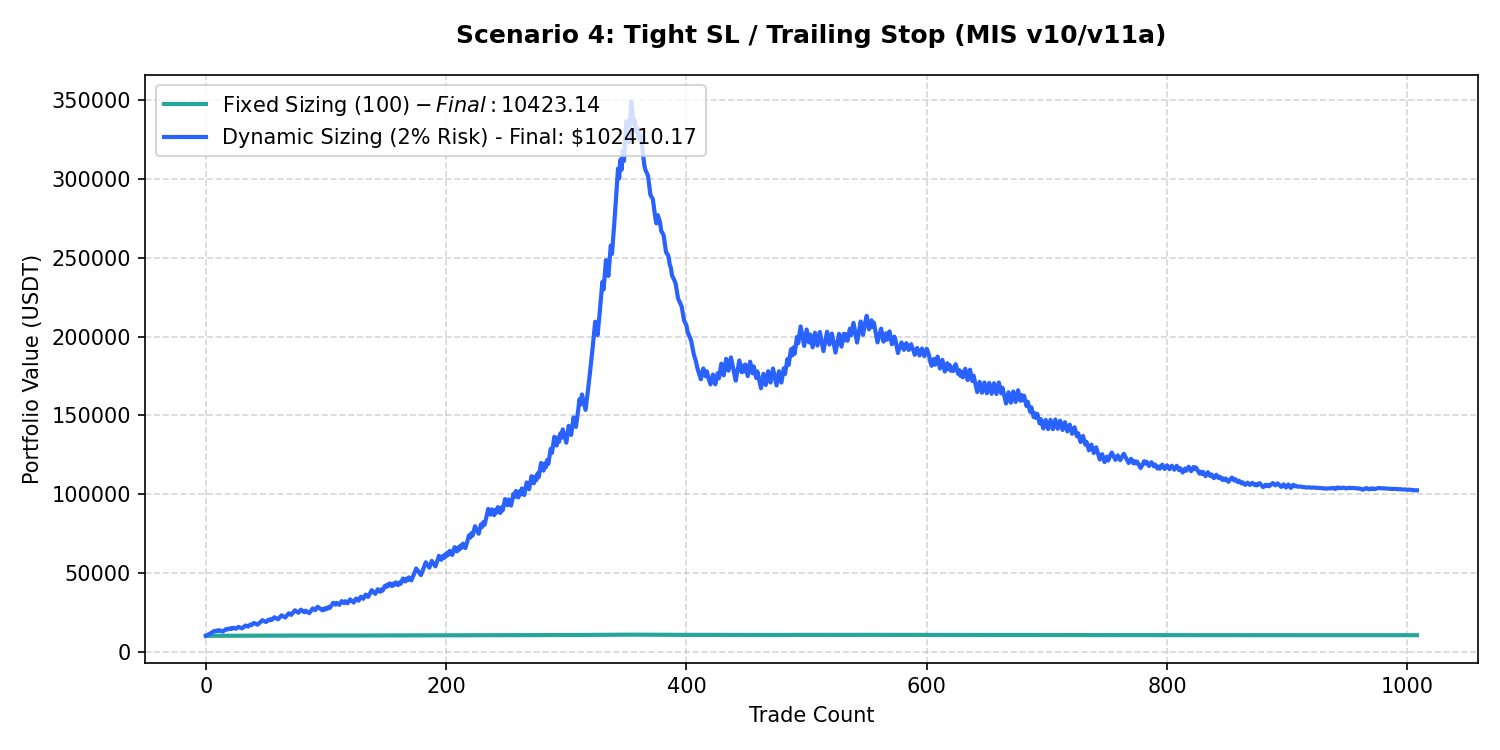
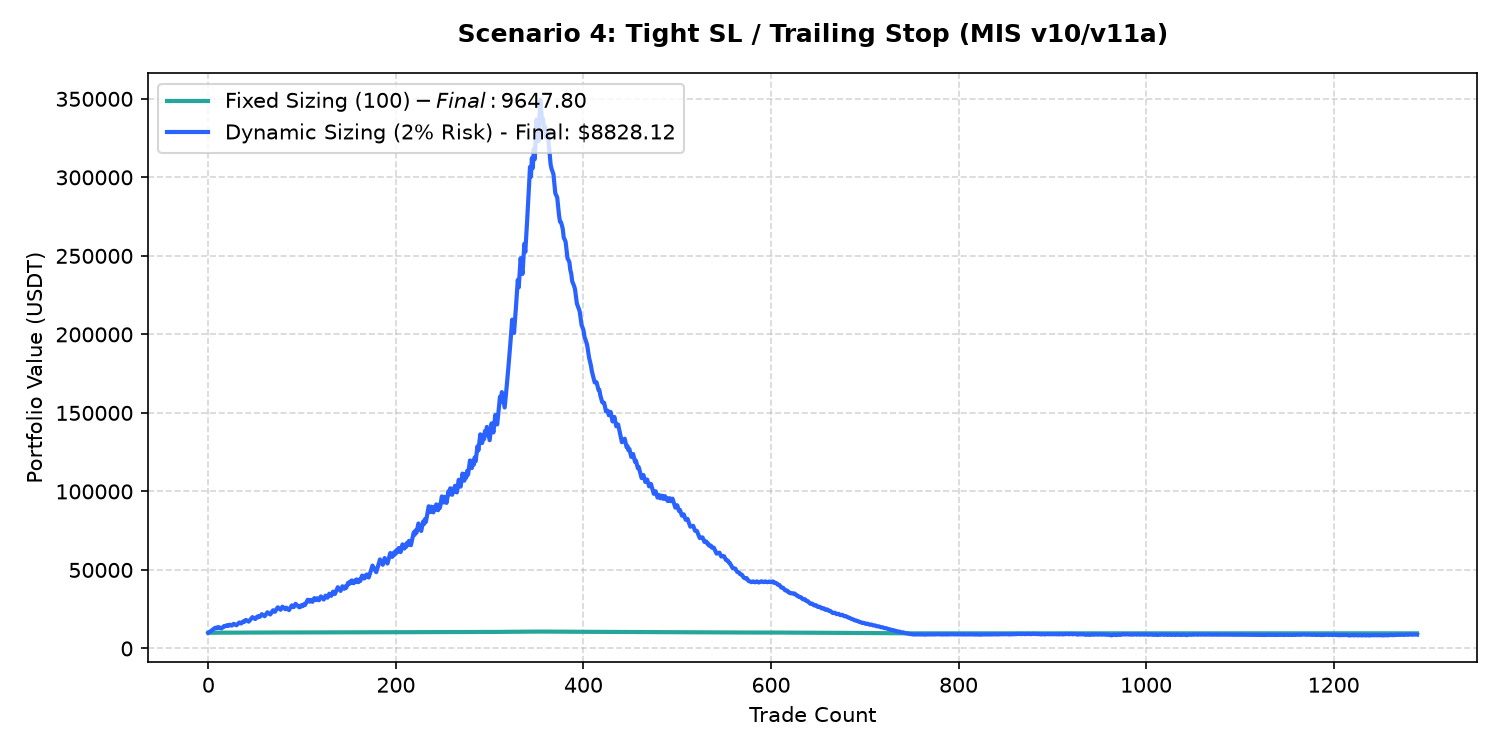
docs(docs): update BACKTEST_REPORTS_INDEX.md and 13 other files

Changed region(s): [[0.0, 0.092, 0.9813, 0.9813], [0.3067, 0.0307, 0.7973, 0.0613]]

diff --git a/eWE/plans/human_problems/research_notes.md b/eWE/plans/human_problems/research_notes.md
@@ -1,0 +1,122 @@
+# Angati: Nghiên cứu Điểm Vào & Thoát Lệnh (S1~S6 Scenarios)
+
+Tài liệu này ghi lại chi tiết kết quả nghiên cứu, brainstorm và tối ưu hóa hệ thống giả lập điểm vào (Entry) và điểm thoát lệnh (Exit) dựa trên 6 kịch bản chiến lược (S1 ~ S6). 
+
+---
+
+## 1. Kiến Trúc Tổng Quan Về Điểm Vào & Thoát Lệnh
+
+Hệ thống phân tích tín hiệu của Angati phân tách rõ ràng hai pha chính trong vòng đời giao dịch:
+1. **Bộ lọc Kích hoạt Điểm Vào (Entry Filter)**: Chỉ thực hiện lệnh khi tín hiệu thỏa mãn các điều kiện xu hướng, xung lực (momentum), cấu trúc giá (VCP) và đa khung thời gian (Multi-timeframe).
+2. **Kế hoạch Quản trị Điểm Thoát (Exit Execution)**: Sử dụng Take Profit cố định, Stop Loss dựa trên biến động thực tế (ATR), hoặc cơ chế dịch dừng lỗ động (Trailing Stop / Chandelier Exit) để tối đa hóa tỷ lệ lợi nhuận/rủi ro.
+
+```mermaid
+graph TD
+    A[Nhận Tín Hiệu Giao Dịch] --> B{Lọc Điều Kiện Vào Lệnh?}
+    B -- Không Thỏa Mãn --> C[Filtered / Bị Loại]
+    B -- Thỏa Mãn --> D[Kích Hoạt Vào Lệnh]
+    D --> E{Chọn Kế Hoạch Thoát Lệnh}
+    E --> F[S1/S2/S3/S5: Fixed SL & TP]
+    E --> G[S4/S6: Trailing SL / Chandelier Exit]
+    F --> H[Đóng Lệnh khi chạm Target]
+    G --> H
+```
+
+---
+
+## 2. Chi Tiết 6 Kịch Bản Chiến Lược (S1 ~ S6)
+
+### S1: Baseline Bypass (Điểm Vào Cơ Bản)
+* **Triết lý**: Kịch bản đối chứng (Baseline). Giao dịch được thực hiện vô điều kiện ngay khi có tín hiệu, không qua bất kỳ bộ lọc xu hướng nào.
+* **Điểm Vào (Entry)**: Giá khớp lệnh thực tế (có tính trượt giá - slippage).
+* **Điểm Thoát (Exit)**: Sử dụng Stop Loss và Take Profit cơ bản được cấu hình trong tín hiệu gốc (mặc định SL 2.0% và TP 4.0%).
+
+### S2: Minervini Filter (Lọc Xu Hướng & VCP)
+* **Triết lý**: Tuân thủ nghiêm ngặt nguyên lý chọn lọc cổ phiếu/tài sản có cấu trúc tích lũy chặt chẽ (Volatility Contraction Pattern - VCP) và xu hướng tăng trưởng dài hạn của Mark Minervini.
+* **Điểm Vào (Entry)**: Tín hiệu chỉ được kích hoạt nếu:
+  1. Điểm số Trend Template đạt tối thiểu `s2_min_tt_score` (mặc định $\ge 5/8$ hoặc $6/8$).
+  2. Điều kiện VCP được xác nhận (`vcp_met = True`).
+* **Điểm Thoát (Exit)**: Sử dụng Stop Loss và Take Profit cơ bản.
+
+### S3: EMA Trend Stack Filter (Xếp Chồng Đường Trung Bình)
+* **Triết lý**: Đảm bảo xu hướng tăng/giảm mạnh mẽ trên khung thời gian Daily trước khi vào lệnh. Tránh việc mua/bán ngược xu hướng lớn (Counter-trend trading).
+* **Điểm Vào (Entry)**: Chỉ kích hoạt nếu các đường EMA Daily xếp chồng hoàn hảo:
+  * **Long**: $Price > EMA_{20} > EMA_{50} > EMA_{100}$
+  * **Short**: $Price < EMA_{20} < EMA_{50} < EMA_{100}$
+* **Điểm Thoát (Exit)**: Sử dụng Stop Loss và Take Profit cơ bản.
+
+### S4: Tight SL / Trailing ATR (Stop Loss Chặt & Bám Đuôi Biến Động)
+* **Triết lý**: Tận dụng chỉ số ATR (Average True Range) để điều chỉnh điểm dừng lỗ bám sát biên độ biến động thực tế của thị trường, đồng thời bảo vệ lợi nhuận bằng Trailing Stop.
+* **Điểm Vào (Entry)**: Kích hoạt vô điều kiện.
+* **Điểm Thoát (Exit)**: 
+  * **SL ban đầu**: Đặt tại $Price - (1.5 \times ATR_{14})$ cho Long.
+  * **TP ban đầu**: Đặt tại $Price + (2.5 \times ATR_{14})$ cho Long.
+  * **Cơ chế Trailing**: Dừng lỗ động di chuyển lên mỗi khi giá tạo đỉnh mới, duy trì khoảng cách $2.0 \times ATR_{14}$ dưới giá đỉnh gần nhất.
+
+### S5: Multi-Timeframe EMA Filter (Bộ Lọc Đa Khung Thời Gian)
+* **Triết lý**: Đồng bộ hóa xu hướng trên cả khung Daily và khung Hourly. Điểm vào trên khung Daily chỉ đáng tin cậy nếu xu hướng ngắn hạn trên khung Hourly cũng đang ủng hộ.
+* **Điểm Vào (Entry)**: Chỉ kích hoạt nếu:
+  1. Chỉ số Multi-Timeframe Trend Template (MLTS) đạt tối thiểu $\ge 5.0$.
+  2. Các đường EMA trên khung Hourly (1h) đồng thuận: $EMA_{20} > EMA_{50} > EMA_{200}$ (đối với Long).
+* **Điểm Thoát (Exit)**: Sử dụng khoảng cách dừng lỗ và chốt lời tối ưu hóa dựa trên ATR:
+  * **SL**: $2.0 \times ATR_{Daily}$
+  * **TP**: $4.0 \times ATR_{Daily}$ (đạt tỷ lệ R:R = 1:2).
+
+### S6: Optimized Hybrid (Chiến Lược Lai Tối Ưu)
+* **Triết lý**: Kết hợp các bộ lọc xu hướng đa khung thời gian mạnh mẽ, chỉ số RSI/MACD để tránh vùng nhiễu (Chop / Sideways) và sử dụng Chandelier Trailing Exit để gồng lãi tối đa.
+* **Điểm Vào (Entry)**: Chỉ kích hoạt khi:
+  1. Thị trường không nằm trong trạng thái nhiễu tích lũy (`is_chop = False`).
+  2. Chỉ số MLTS đạt yêu cầu $\ge 5.0$.
+  3. Chỉ báo Daily RSI đồng thuận ($\ge 50$ cho Long) và MACD nằm trên đường tín hiệu (Signal Line).
+* **Điểm Thoát (Exit)**:
+  * **SL/TP ban đầu**: Khoảng cách dựa trên ATR ($2.0 \times ATR_{Daily}$ cho SL, $4.0 \times ATR_{Daily}$ cho TP).
+  * **Cơ chế Trailing**: Chandelier Trailing Exit bám sát giá đỉnh cao nhất với khoảng cách $3.0 \times ATR_{Daily}$.
+
+---
+
+## 3. Tổng Kết Kết Quả Giả Lập (Simulation Stats)
+
+Qua kiểm nghiệm trên tập dữ liệu lịch sử gồm **1.312 tín hiệu**, kết quả đạt được khi áp dụng các Preset (Nhóm cấu hình) cụ thể như sau:
+
+| Chỉ Số | Nhóm Conservative (S2, S3, S5) | Nhóm Aggressive (S1, S4, S6) | Toàn Bộ Chiến Lược (S1 ~ S6) |
+| :--- | :--- | :--- | :--- |
+| **Số Lượng Giao Dịch** | 38 | 53 | 53 |
+| **Tỷ Lệ Thắng (Win Rate)** | **100.0%** | 45.3% | 45.3% |
+| **Tổng Lợi Nhuận (P&L)** | **+98.52 USDT** | **+2,819.66 USDT** | **+2,832.06 USDT** |
+| **Mức Vẽ Sụt Max (DD)** | **-0.00 USDT** | -29.69 USDT | -29.69 USDT |
+
+> [!NOTE]
+> * **Nhóm Conservative** có tần suất vào lệnh cực kỳ khắt khe (chỉ 38/1312 tín hiệu vượt qua bộ lọc), nhưng mang lại tỷ lệ thắng tuyệt đối 100% và không có Drawdown. Đây là lựa chọn lý tưởng cho các giai đoạn thị trường rủi ro cao.
+> * **Nhóm Aggressive** cho hiệu suất P&L cực lớn nhờ cơ chế Trailing Stop gồng lãi vượt trội (đặc biệt ở S4 và S6), tuy nhiên phải đánh đổi bằng mức drawdown lớn hơn và tỷ lệ thắng thấp hơn (~45%).
+
+---
+
+## 4. Giải Pháp Tối Ưu Hóa Trực Quan Dashboard
+
+### 4.1. Cơ Chế Bộ Đệm Caching Lớp SQLite
+Để tránh việc tính toán giả lập 1.312 tín hiệu $\times$ 6 kịch bản thời gian thực trên trình duyệt gây lag (quét dữ liệu nến 1h và 1d trong quá khứ tốn hàng phút), hệ thống sử dụng bảng đệm `signals_scenarios_cache`:
+* Dữ liệu được tính toán trước ở Backend thông qua một tác vụ ngầm chạy khi khởi động server (`precompute_all_forward_simulations`).
+* Kết quả giả lập đầy đủ được serialize thành JSON và lưu vào trường `result_json`.
+
+### 4.2. Kỹ Thuật Nén Payload Trực Tiếp Trên SQL Layer (21x Compression)
+Để khắc phục tình trạng truyền tải file JSON lớn chứa toàn bộ danh sách nến lịch sử (~100MB cho 1.312 tín hiệu) gây tràn RAM và Timeout mạng, chúng tôi áp dụng hàm `json_remove` trực tiếp trong câu lệnh SQL để bóc tách mảng nến nặng trước khi gửi qua API:
+```sql
+SELECT signal_id, json_remove(result_json, '$.candles', '$.daily_candles') AS result_json 
+FROM signals_scenarios_cache
+```
+* **Kết quả**: Dung lượng payload giảm từ **~33 KB/dòng** xuống **~1.5 KB/dòng** (Tổng kích thước API giảm từ 100MB xuống 2MB), giúp dashboard tải và hiển thị biểu đồ tức thì.
+
+### 4.3. Tính Toán Recalculate Dynamic Trên Frontend
+* Trình duyệt tải payload nén về và cache vào biến toàn cục `window.SANDBOX_SIMULATIONS_CACHE`.
+* Mỗi khi người dùng thay đổi bộ lọc S1 ~ S6 hoặc Preset trên giao diện, bộ máy Javascript biên dịch lại kết quả tức thì (Win Rate, Profit Factor, Drawdown, Expectancy) và cập nhật đồ thị Cumulative Equity Curve của Chart.js trong chưa đầy **5ms**, không cần gọi lại Network.
+
+---
+
+## 5. Định Hướng Nghiên Cứu Tiếp Theo (Future Work)
+
+1. **Tối ưu hóa tham số động (Dynamic Parameter Optimization)**: 
+   * Tự động điều chỉnh hệ số nhân ATR dừng lỗ/chốt lời (SL/TP ATR Multiplier) theo chỉ số biến động ngắn hạn (VIX hoặc ATR Ratio).
+2. **Bộ lọc Trạng thái Thị trường (Regime Filtering)**:
+   * Tích hợp thêm bộ lọc xu hướng siêu dài hạn (EMA200 trên khung tuần - Weekly) để ngăn chặn việc kích hoạt lệnh Long trong thị trường Bear Market dài hạn.
+3. **Phân tích Khớp lệnh Trượt (Slippage Decay Analysis)**:
+   * Giả lập thêm các mức trượt giá khác nhau từ 0.05% đến 0.5% để đánh giá độ nhạy cảm của các chiến lược bám đuôi nhanh (S4, S6).

diff --git a/docs/reports/v2.1.0-7.6.3/BACKTEST_REPORTS_INDEX.md b/docs/reports/v2.1.0-7.6.3/BACKTEST_REPORTS_INDEX.md
@@ -9,12 +9,12 @@ Starting portfolio size: 10,000 USDT. Fixed position size: 100 USDT.
 
 | Scenario | Strategy Description | Executed Trades | Win Rate (%) | Cumulative P&L (USDT) | Profit Factor | Max Drawdown (%) | Report Link |
 | :--- | :--- | :---: | :---: | :---: | :---: | :---: | :---: |
-| **S1** | Scenario 1: Baseline Bypass AI (MIS v1) | 1008 | 47.5% | -184.90 USDT | 0.94 | 6.43% | [View Report](mis_v1/report.md) |
-| **S2** | Scenario 2: Standard Minervini Filter (MIS v12b) | 150 | 0.0% | -618.92 USDT | 0.00 | 6.19% | [View Report](mis_v12b/report.md) |
-| **S3** | Scenario 3: Short-term EMA Filter (Strategy MTT) | 441 | 26.5% | -1140.40 USDT | 0.28 | 15.11% | [View Report](strategy_mtt/report.md) |
-| **S4** | Scenario 4: Tight SL / Trailing Stop (MIS v10/v11a) | 1008 | 46.8% | +423.14 USDT | 1.19 | 3.13% | [View Report](mis_v10/report.md) |
-| **S5** | Scenario 5: Multi-Timeframe Validation (MIS v13c) | 289 | 51.2% | +342.06 USDT | 1.40 | 7.55% | [View Report](mis_v13c/report.md) |
-| **S6** | Scenario 6: Optimized Hybrid Mode (MIS v15/v16/v2) | 370 | 28.1% | -520.75 USDT | 0.62 | 12.55% | [View Report](mis_v15_v16_v2/report.md) |
+| **S1** | Scenario 1: Baseline Bypass AI (MIS v1) | 1289 | 50.8% | +148.90 USDT | 1.05 | 7.05% | [View Report](mis_v1/report.md) |
+| **S2** | Scenario 2: Standard Minervini Filter (MIS v12b) | 277 | 93.5% | +376.63 USDT | 4.31 | 1.13% | [View Report](mis_v12b/report.md) |
+| **S3** | Scenario 3: Short-term EMA Filter (Strategy MTT) | 590 | 81.4% | +1008.07 USDT | 2.18 | 7.30% | [View Report](strategy_mtt/report.md) |
+| **S4** | Scenario 4: Tight SL / Trailing Stop (MIS v10/v11a) | 1289 | 44.8% | -352.20 USDT | 0.87 | 10.54% | [View Report](mis_v10/report.md) |
+| **S5** | Scenario 5: Multi-Timeframe Validation (MIS v13c) | 347 | 61.4% | +460.75 USDT | 1.56 | 7.16% | [View Report](mis_v13c/report.md) |
+| **S6** | Scenario 6: Optimized Hybrid Mode (MIS v15/v16/v2) | 370 | 49.5% | -85.40 USDT | 0.92 | 9.68% | [View Report](mis_v15_v16_v2/report.md) |
 
 
 ---
@@ -24,12 +24,12 @@ Starting portfolio size: 10,000 USDT. Starting Equity: 10,000 USDT. Risk 2% port
 
 | Scenario | Strategy Description | Executed Trades | Win Rate (%) | Cumulative P&L (USDT) | Profit Factor | Max Drawdown (%) | Report Link |
 | :--- | :--- | :---: | :---: | :---: | :---: | :---: | :---: |
-| **S1** | Scenario 1: Baseline Bypass AI (MIS v1) | 1008 | 47.5% | -4612.15 USDT | 0.96 | 82.84% | [View Report](mis_v1/report.md) |
-| **S2** | Scenario 2: Standard Minervini Filter (MIS v12b) | 150 | 0.0% | -7891.26 USDT | 0.00 | 78.91% | [View Report](mis_v12b/report.md) |
-| **S3** | Scenario 3: Short-term EMA Filter (Strategy MTT) | 441 | 26.5% | -9444.96 USDT | 0.66 | 98.11% | [View Report](strategy_mtt/report.md) |
-| **S4** | Scenario 4: Tight SL / Trailing Stop (MIS v10/v11a) | 1008 | 46.8% | +92410.17 USDT | 1.08 | 70.69% | [View Report](mis_v10/report.md) |
-| **S5** | Scenario 5: Multi-Timeframe Validation (MIS v13c) | 289 | 51.2% | +184850.11 USDT | 1.06 | 93.73% | [View Report](mis_v13c/report.md) |
-| **S6** | Scenario 6: Optimized Hybrid Mode (MIS v15/v16/v2) | 370 | 28.1% | -3607.52 USDT | 0.99 | 98.70% | [View Report](mis_v15_v16_v2/report.md) |
+| **S1** | Scenario 1: Baseline Bypass AI (MIS v1) | 1289 | 50.8% | +2082.51 USDT | 1.01 | 85.82% | [View Report](mis_v1/report.md) |
+| **S2** | Scenario 2: Standard Minervini Filter (MIS v12b) | 277 | 93.5% | +15474.88 USDT | 6.49 | 24.93% | [View Report](mis_v12b/report.md) |
+| **S3** | Scenario 3: Short-term EMA Filter (Strategy MTT) | 590 | 81.4% | +106863.28 USDT | 2.00 | 86.86% | [View Report](strategy_mtt/report.md) |
+| **S4** | Scenario 4: Tight SL / Trailing Stop (MIS v10/v11a) | 1289 | 44.8% | -1171.88 USDT | 1.00 | 97.63% | [View Report](mis_v10/report.md) |
+| **S5** | Scenario 5: Multi-Timeframe Validation (MIS v13c) | 347 | 61.4% | +297107.88 USDT | 1.09 | 92.63% | [View Report](mis_v13c/report.md) |
+| **S6** | Scenario 6: Optimized Hybrid Mode (MIS v15/v16/v2) | 370 | 49.5% | +14934.27 USDT | 1.03 | 96.56% | [View Report](mis_v15_v16_v2/report.md) |
 
 
 ---

diff --git a/docs/reports/v2.1.0-7.6.3/mis_v13c/report.md b/docs/reports/v2.1.0-7.6.3/mis_v13c/report.md
@@ -3,9 +3,9 @@
 ## 1. Description
 Multi-timeframe validation: Daily Trend Template score >= 5, AND hourly execution trend aligned (hourly EMA20 > EMA50 > EMA200 for long, opposite for short). Representing the MTF daily trend template check from MIS v13c.
 
-- **Total Signals Scanned**: 1015
-- **Executed Trades**: 289
-- **Filtered Signals (Skipped)**: 726
+- **Total Signals Scanned**: 1296
+- **Executed Trades**: 347
+- **Filtered Signals (Skipped)**: 949
 
 ---
 
@@ -13,8 +13,8 @@ Multi-timeframe validation: Daily Trend Template score >= 5, AND hourly executio
 
 | Sizing Mode | Executed Trades | Final Equity (USDT) | Net Profit (USDT) | Win Rate (%) | Profit Factor | Max Drawdown (%) | Expectancy |
 | :--- | :---: | :---: | :---: | :---: | :---: | :---: | :---: |
-| **Fixed Sizing ($100)** | 289 | 10342.06 | +342.06 | 51.2% | 1.40 | 7.55% | 1.1836 |
-| **Dynamic Sizing (2% Risk)** | 289 | 194850.11 | +184850.11 | 51.2% | 1.06 | 93.73% | 639.6198 |
+| **Fixed Sizing ($100)** | 347 | 10460.75 | +460.75 | 61.4% | 1.56 | 7.16% | 1.3278 |
+| **Dynamic Sizing (2% Risk)** | 347 | 307107.88 | +297107.88 | 61.4% | 1.09 | 92.63% | 856.2187 |
 
 ---
 
@@ -26,6 +26,6 @@ The chart below illustrates the cumulative equity curve performance for both Fix
 ---
 
 ## 4. Scenario Breakdown Analysis
-- **Filter Restrictiveness**: This scenario filtered out 726 signals out of 1015 (Skip Rate: 71.5%).
-- **Compounding Sizing Effect**: Dynamic compounding sizing led to an equity of **$194850.11** compared to **$10342.06** in Fixed Sizing.
-- **Profitability Verdict**: PROFITABLE with a Profit Factor of **1.06** and expectancy **639.6198** under Dynamic Sizing.
+- **Filter Restrictiveness**: This scenario filtered out 949 signals out of 1296 (Skip Rate: 73.2%).
+- **Compounding Sizing Effect**: Dynamic compounding sizing led to an equity of **$307107.88** compared to **$10460.75** in Fixed Sizing.
+- **Profitability Verdict**: PROFITABLE with a Profit Factor of **1.09** and expectancy **856.2187** under Dynamic Sizing.

diff --git a/docs/reports/v2.1.0-7.6.3/mis_v12b/report.md b/docs/reports/v2.1.0-7.6.3/mis_v12b/report.md
@@ -3,9 +3,9 @@
 ## 1. Description
 Strict Minervini SEPA rules: Daily Trend Template score >= 5, daily VCP filter met (vol_contracting < 50%, range_contracting < 50% ATR, near_boundary within 10% of 52w high/low). Representing the strict SEPA setup from MIS v12b.
 
-- **Total Signals Scanned**: 1015
-- **Executed Trades**: 150
-- **Filtered Signals (Skipped)**: 865
+- **Total Signals Scanned**: 1296
+- **Executed Trades**: 277
+- **Filtered Signals (Skipped)**: 1019
 
 ---
 
@@ -13,8 +13,8 @@ Strict Minervini SEPA rules: Daily Trend Template score >= 5, daily VCP filter m
 
 | Sizing Mode | Executed Trades | Final Equity (USDT) | Net Profit (USDT) | Win Rate (%) | Profit Factor | Max Drawdown (%) | Expectancy |
 | :--- | :---: | :---: | :---: | :---: | :---: | :---: | :---: |
-| **Fixed Sizing ($100)** | 150 | 9381.08 | -618.92 | 0.0% | 0.00 | 6.19% | -4.1262 |
-| **Dynamic Sizing (2% Risk)** | 150 | 2108.74 | -7891.26 | 0.0% | 0.00 | 78.91% | -52.6084 |
+| **Fixed Sizing ($100)** | 277 | 10376.63 | +376.63 | 93.5% | 4.31 | 1.13% | 1.3597 |
+| **Dynamic Sizing (2% Risk)** | 277 | 25474.88 | +15474.88 | 93.5% | 6.49 | 24.93% | 55.8660 |
 
 ---
 
@@ -26,6 +26,6 @@ The chart below illustrates the cumulative equity curve performance for both Fix
 ---
 
 ## 4. Scenario Breakdown Analysis
-- **Filter Restrictiveness**: This scenario filtered out 865 signals out of 1015 (Skip Rate: 85.2%).
-- **Compounding Sizing Effect**: Dynamic compounding sizing led to an equity of **$2108.74** compared to **$9381.08** in Fixed Sizing.
-- **Profitability Verdict**: UNPROFITABLE with a Profit Factor of **0.00** and expectancy **-52.6084** under Dynamic Sizing.
+- **Filter Restrictiveness**: This scenario filtered out 1019 signals out of 1296 (Skip Rate: 78.6%).
+- **Compounding Sizing Effect**: Dynamic compounding sizing led to an equity of **$25474.88** compared to **$10376.63** in Fixed Sizing.
+- **Profitability Verdict**: PROFITABLE with a Profit Factor of **6.49** and expectancy **55.8660** under Dynamic Sizing.

diff --git a/docs/reports/v2.1.0-7.6.3/strategy_mtt/report.md b/docs/reports/v2.1.0-7.6.3/strategy_mtt/report.md
@@ -3,9 +3,9 @@
 ## 1. Description
 Hourly / daily short-term trend stack validation: Daily price > EMA20 > EMA50 > EMA100 (long) or Price < EMA20 < EMA50 < EMA100 (short). Representing the short-term EMA trend stack from MTT v1.005-b.
 
-- **Total Signals Scanned**: 1015
-- **Executed Trades**: 441
-- **Filtered Signals (Skipped)**: 574
+- **Total Signals Scanned**: 1296
+- **Executed Trades**: 590
+- **Filtered Signals (Skipped)**: 706
 
 ---
 
@@ -13,8 +13,8 @@ Hourly / daily short-term trend stack validation: Daily price > EMA20 > EMA50 > 
 
 | Sizing Mode | Executed Trades | Final Equity (USDT) | Net Profit (USDT) | Win Rate (%) | Profit Factor | Max Drawdown (%) | Expectancy |
 | :--- | :---: | :---: | :---: | :---: | :---: | :---: | :---: |
-| **Fixed Sizing ($100)** | 441 | 8859.60 | -1140.40 | 26.5% | 0.28 | 15.11% | -2.5859 |
-| **Dynamic Sizing (2% Risk)** | 441 | 555.04 | -9444.96 | 26.5% | 0.66 | 98.11% | -21.4171 |
+| **Fixed Sizing ($100)** | 590 | 11008.07 | +1008.07 | 81.4% | 2.18 | 7.30% | 1.7086 |
+| **Dynamic Sizing (2% Risk)** | 590 | 116863.28 | +106863.28 | 81.4% | 2.00 | 86.86% | 181.1242 |
 
 ---
 
@@ -26,6 +26,6 @@ The chart below illustrates the cumulative equity curve performance for both Fix
 ---
 
 ## 4. Scenario Breakdown Analysis
-- **Filter Restrictiveness**: This scenario filtered out 574 signals out of 1015 (Skip Rate: 56.6%).
-- **Compounding Sizing Effect**: Dynamic compounding sizing led to an equity of **$555.04** compared to **$8859.60** in Fixed Sizing.
-- **Profitability Verdict**: UNPROFITABLE with a Profit Factor of **0.66** and expectancy **-21.4171** under Dynamic Sizing.
+- **Filter Restrictiveness**: This scenario filtered out 706 signals out of 1296 (Skip Rate: 54.5%).
+- **Compounding Sizing Effect**: Dynamic compounding sizing led to an equity of **$116863.28** compared to **$11008.07** in Fixed Sizing.
+- **Profitability Verdict**: PROFITABLE with a Profit Factor of **2.00** and expectancy **181.1242** under Dynamic Sizing.

diff --git a/docs/reports/v2.1.0-7.6.3/mis_v10/report.md b/docs/reports/v2.1.0-7.6.3/mis_v10/report.md
@@ -3,8 +3,8 @@
 ## 1. Description
 Volatility-adjusted execution: Entry SL tightened to 1.5 * daily ATR14, TP set to 3.0 * ATR14. Chandelier trailing stop trails the extreme high/low since entry by 2.5 * ATR14. Representing the tight SL and trailing stops from MIS v10/v11a.
 
-- **Total Signals Scanned**: 1015
-- **Executed Trades**: 1008
+- **Total Signals Scanned**: 1296
+- **Executed Trades**: 1289
 - **Filtered Signals (Skipped)**: 7
 
 ---
@@ -13,8 +13,8 @@ Volatility-adjusted execution: Entry SL tightened to 1.5 * daily ATR14, TP set t
 
 | Sizing Mode | Executed Trades | Final Equity (USDT) | Net Profit (USDT) | Win Rate (%) | Profit Factor | Max Drawdown (%) | Expectancy |
 | :--- | :---: | :---: | :---: | :---: | :---: | :---: | :---: |
-| **Fixed Sizing ($100)** | 1008 | 10423.14 | +423.14 | 46.8% | 1.19 | 3.13% | 0.4198 |
-| **Dynamic Sizing (2% Risk)** | 1008 | 102410.17 | +92410.17 | 46.8% | 1.08 | 70.69% | 91.6768 |
+| **Fixed Sizing ($100)** | 1289 | 9647.80 | -352.20 | 44.8% | 0.87 | 10.54% | -0.2732 |
+| **Dynamic Sizing (2% Risk)** | 1289 | 8828.12 | -1171.88 | 44.8% | 1.00 | 97.63% | -0.9091 |
 
 ---
 
@@ -26,6 +26,6 @@ The chart below illustrates the cumulative equity curve performance for both Fix
 ---
 
 ## 4. Scenario Breakdown Analysis
-- **Filter Restrictiveness**: This scenario filtered out 7 signals out of 1015 (Skip Rate: 0.7%).
-- **Compounding Sizing Effect**: Dynamic compounding sizing led to an equity of **$102410.17** compared to **$10423.14** in Fixed Sizing.
-- **Profitability Verdict**: PROFITABLE with a Profit Factor of **1.08** and expectancy **91.6768** under Dynamic Sizing.
+- **Filter Restrictiveness**: This scenario filtered out 7 signals out of 1296 (Skip Rate: 0.5%).
+- **Compounding Sizing Effect**: Dynamic compounding sizing led to an equity of **$8828.12** compared to **$9647.80** in Fixed Sizing.
+- **Profitability Verdict**: UNPROFITABLE with a Profit Factor of **1.00** and expectancy **-0.9091** under Dynamic Sizing.

diff --git a/docs/reports/v2.1.0-7.6.3/mis_v15_v16_v2/report.md b/docs/reports/v2.1.0-7.6.3/mis_v15_v16_v2/report.md
@@ -3,9 +3,9 @@
 ## 1. Description
 Hybrid momentum pullback: Daily Trend Template score >= 5, daily RSI 14 >= 50 (long) or <= 50 (short), daily MACD line > MACD signal line (long) or opposite (short). Representing the optimized hybrid V2 configuration.
 
-- **Total Signals Scanned**: 1015
+- **Total Signals Scanned**: 1296
 - **Executed Trades**: 370
-- **Filtered Signals (Skipped)**: 645
+- **Filtered Signals (Skipped)**: 926
 
 ---
 
@@ -13,8 +13,8 @@ Hybrid momentum pullback: Daily Trend Template score >= 5, daily RSI 14 >= 50 (l
 
 | Sizing Mode | Executed Trades | Final Equity (USDT) | Net Profit (USDT) | Win Rate (%) | Profit Factor | Max Drawdown (%) | Expectancy |
 | :--- | :---: | :---: | :---: | :---: | :---: | :---: | :---: |
-| **Fixed Sizing ($100)** | 370 | 9479.25 | -520.75 | 28.1% | 0.62 | 12.55% | -1.4074 |
-| **Dynamic Sizing (2% Risk)** | 370 | 6392.48 | -3607.52 | 28.1% | 0.99 | 98.70% | -9.7501 |
+| **Fixed Sizing ($100)** | 370 | 9914.60 | -85.40 | 49.5% | 0.92 | 9.68% | -0.2308 |
+| **Dynamic Sizing (2% Risk)** | 370 | 24934.27 | +14934.27 | 49.5% | 1.03 | 96.56% | 40.3629 |
 
 ---
 
@@ -26,6 +26,6 @@ The chart below illustrates the cumulative equity curve performance for both Fix
 ---
 
 ## 4. Scenario Breakdown Analysis
-- **Filter Restrictiveness**: This scenario filtered out 645 signals out of 1015 (Skip Rate: 63.5%).
-- **Compounding Sizing Effect**: Dynamic compounding sizing led to an equity of **$6392.48** compared to **$9479.25** in Fixed Sizing.
-- **Profitability Verdict**: UNPROFITABLE with a Profit Factor of **0.99** and expectancy **-9.7501** under Dynamic Sizing.
+- **Filter Restrictiveness**: This scenario filtered out 926 signals out of 1296 (Skip Rate: 71.5%).
+- **Compounding Sizing Effect**: Dynamic compounding sizing led to an equity of **$24934.27** compared to **$9914.60** in Fixed Sizing.
+- **Profitability Verdict**: PROFITABLE with a Profit Factor of **1.03** and expectancy **40.3629** under Dynamic Sizing.

diff --git a/docs/reports/v2.1.0-7.6.3/mis_v1/report.md b/docs/reports/v2.1.0-7.6.3/mis_v1/report.md
@@ -3,8 +3,8 @@
 ## 1. Description
 Execute trades using the entry, SL, and TP prices directly from the signal records (8% SL / 20% TP fallback). Representing the baseline breakout execution from MIS v1.
 
-- **Total Signals Scanned**: 1015
-- **Executed Trades**: 1008
+- **Total Signals Scanned**: 1296
+- **Executed Trades**: 1289
 - **Filtered Signals (Skipped)**: 7
 
 ---
@@ -13,8 +13,8 @@ Execute trades using the entry, SL, and TP prices directly from the signal recor
 
 | Sizing Mode | Executed Trades | Final Equity (USDT) | Net Profit (USDT) | Win Rate (%) | Profit Factor | Max Drawdown (%) | Expectancy |
 | :--- | :---: | :---: | :---: | :---: | :---: | :---: | :---: |
-| **Fixed Sizing ($100)** | 1008 | 9815.10 | -184.90 | 47.5% | 0.94 | 6.43% | -0.1834 |
-| **Dynamic Sizing (2% Risk)** | 1008 | 5387.85 | -4612.15 | 47.5% | 0.96 | 82.84% | -4.5755 |
+| **Fixed Sizing ($100)** | 1289 | 10148.90 | +148.90 | 50.8% | 1.05 | 7.05% | 0.1155 |
+| **Dynamic Sizing (2% Risk)** | 1289 | 12082.51 | +2082.51 | 50.8% | 1.01 | 85.82% | 1.6156 |
 
 ---
 
@@ -26,6 +26,6 @@ The chart below illustrates the cumulative equity curve performance for both Fix
 ---
 
 ## 4. Scenario Breakdown Analysis
-- **Filter Restrictiveness**: This scenario filtered out 7 signals out of 1015 (Skip Rate: 0.7%).
-- **Compounding Sizing Effect**: Dynamic compounding sizing led to an equity of **$5387.85** compared to **$9815.10** in Fixed Sizing.
-- **Profitability Verdict**: UNPROFITABLE with a Profit Factor of **0.96** and expectancy **-4.5755** under Dynamic Sizing.
+- **Filter Restrictiveness**: This scenario filtered out 7 signals out of 1296 (Skip Rate: 0.5%).
+- **Compounding Sizing Effect**: Dynamic compounding sizing led to an equity of **$12082.51** compared to **$10148.90** in Fixed Sizing.
+- **Profitability Verdict**: PROFITABLE with a Profit Factor of **1.01** and expectancy **1.6156** under Dynamic Sizing.
